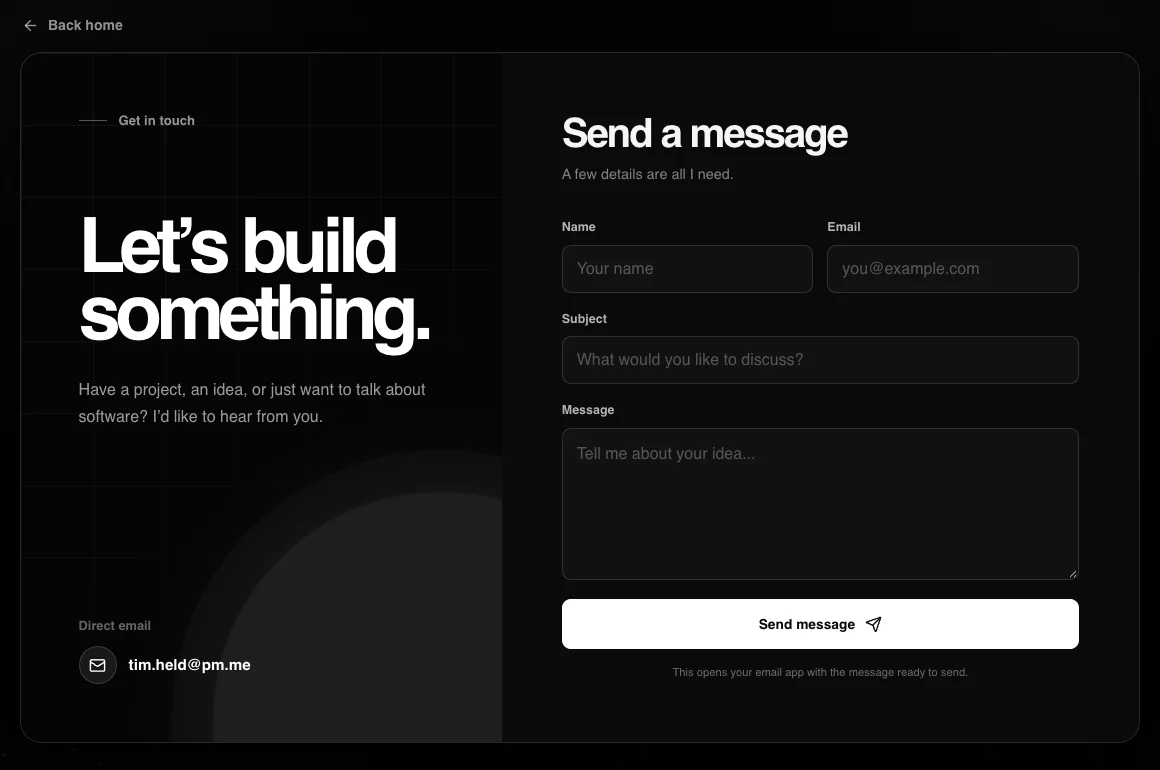
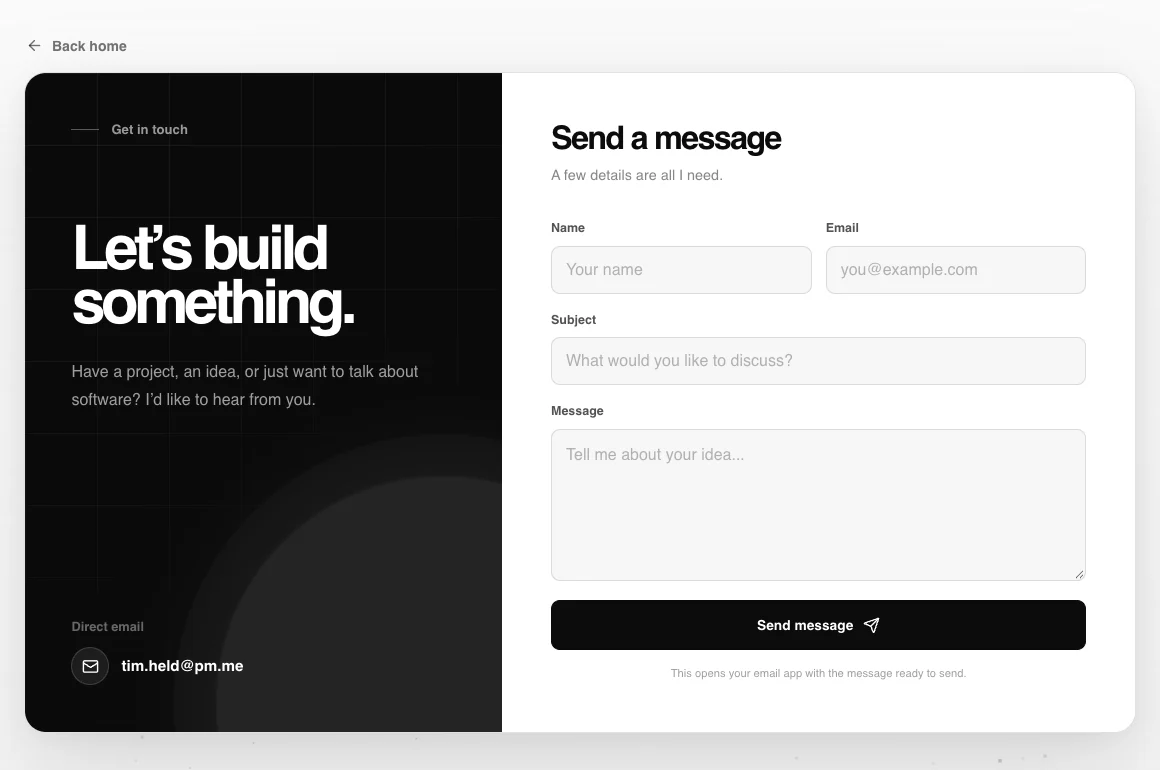
Show light-mode screenshots in the README (#8)
Recaptures the projects, roadmap, tool orbit and contact screenshots in
light mode and drops the dark hero, so the README always shows the light
site regardless of GitHub's color scheme.

diff --git a/README.md b/README.md
@@ -13,11 +13,7 @@
 
 <br />
 
-<picture>
-  <source media="(prefers-color-scheme: dark)" srcset="docs/hero-dark.webp" />
-  <source media="(prefers-color-scheme: light)" srcset="docs/hero-light.webp" />
-  <img src="docs/hero-dark.webp" alt="The AdminGod hero: the AdminGod wordmark next to the AdminGod logo over a starfield" width="900" />
-</picture>
+<img src="docs/hero.webp" alt="The AdminGod hero: the AdminGod wordmark next to the AdminGod logo" width="900" />
 
 <br /><br />
 
